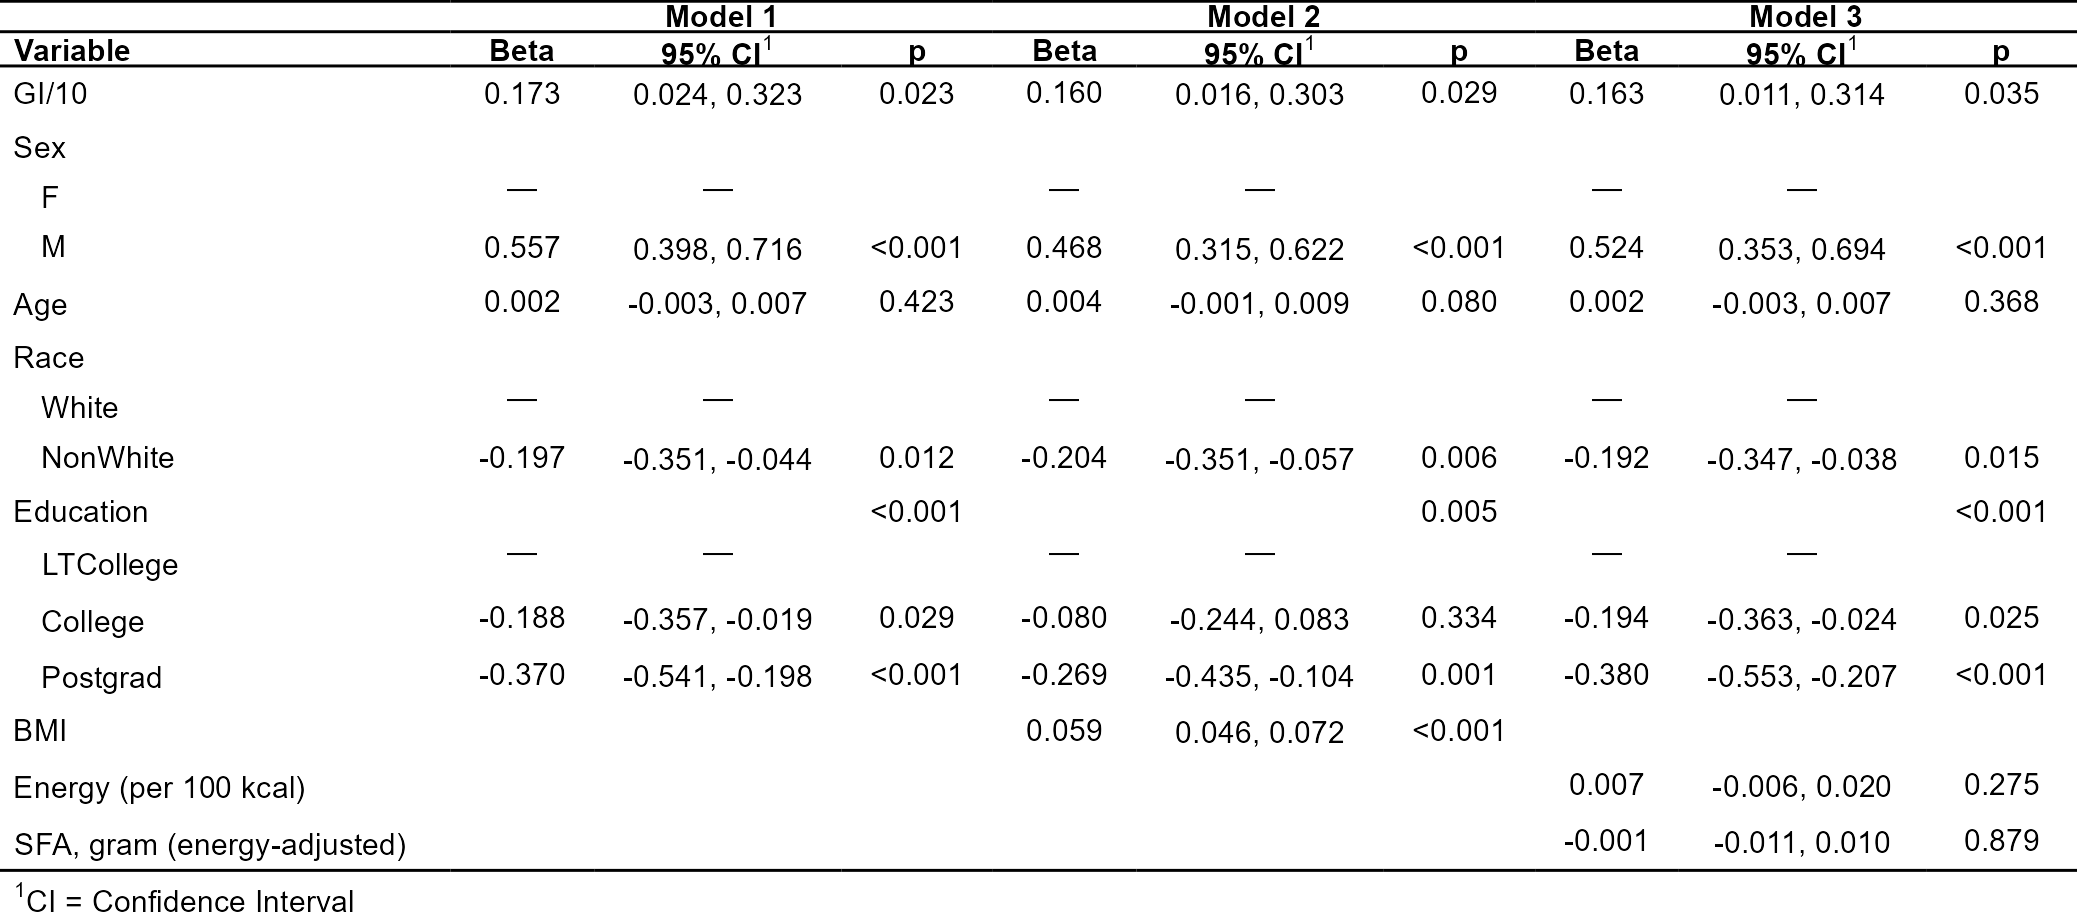
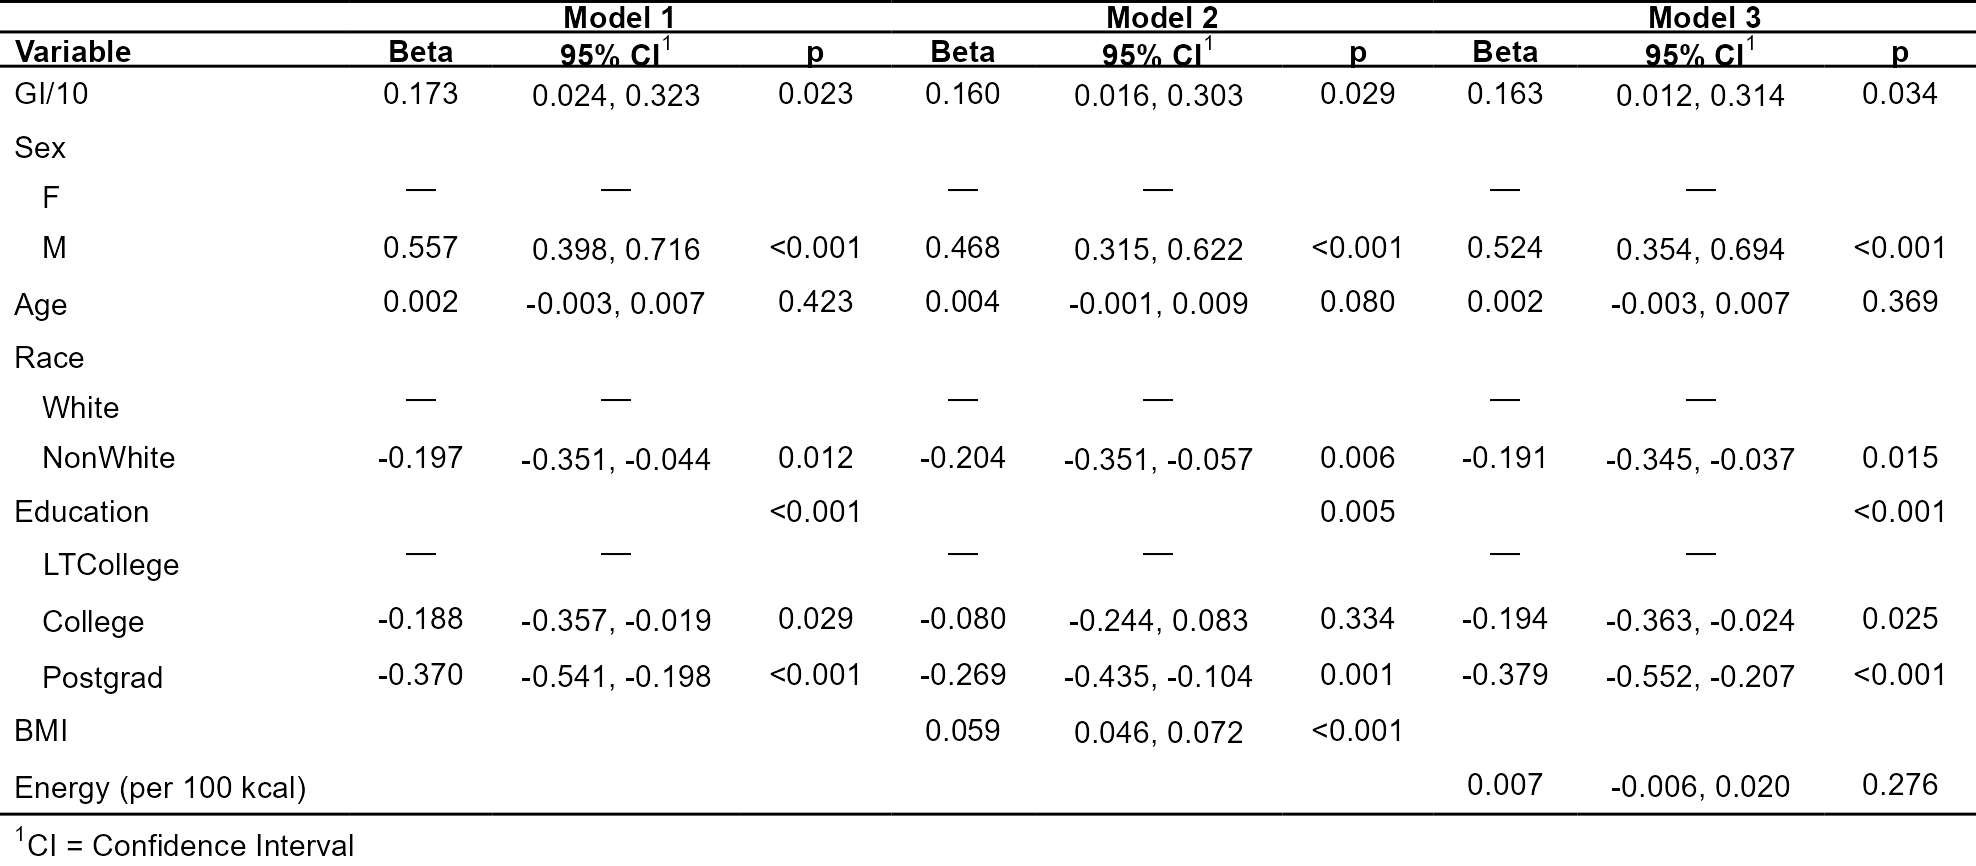
Adds categorical GL/GI model results

diff --git a/summary.md b/summary.md
@@ -230,12 +230,13 @@ HAT hepatic fat study
   - The beta coefficient for GL was attenuated and became
     non-significant after adding BMI into the base model
 
-- In Model 3, total energy (per 100 kcal) and SFA (gram,
-  energy-adjusted) was added to the base model
+- In Model 3, total energy (per 100 kcal) ~~and SFA (gram,
+  energy-adjusted)~~ was added to the base model
 
-  - Both kcal and SFA were not significantly associated with HFF
+  - The total energy intake (kcal) was not significantly associated with
+    HFF
   - Glycemic load was not significantly associated with HFF, after
-    further adjusting for kcal and SFA
+    further adjusting for kcal ~~and SFA~~
 
 - \[I did not use added sugar and carbohydrate, because these two
   variables have a high correlation with each other and this will cause
@@ -245,7 +246,31 @@ HAT hepatic fat study
 - There were no significant interactions between GL and gender, age,
   race, education, BMI, treatment group, or SFA (results not shown here)
 
-<img src="summary_files/figure-gfm/gl_models-1.png" width="2077" />
+<img src="summary_files/figure-gfm/gl_models-1.png" width="1976" />
+
+- The results above suggest that GL is significantly positively
+  associated with HFF when adjusted for demographic variables (gender,
+  age, race and education in Model 1). In order to estimate how HFF
+  differs according to GL levels, GL values were categorized into 3
+  equal tertiles (6.6-85.4, 85.5-121, \>121) and then this categorical
+  GL variable was entered into the model, instead of using GL as
+  continuous as in the previous model.
+
+- The table below shows estimated means (with 95% confidence intervals)
+  of HFF for the tertile groups, after adjusting for the demographic
+  variables.
+
+  - As expected, the mean HFF values (see the column `emmean`) tend to
+    be larger for greater tertile groups.
+  - A significant difference was found between the 1st and the 3rd
+    tertile groups (p = 0.0085). There were no significant differences
+    between (1st vs 2nd) or (2nd vs 3rd).
+
+| GL_cat3     | emmean | lower.CL | upper.CL |
+|:------------|-------:|---------:|---------:|
+| 1st tertile | 0.0566 |   0.0494 |   0.0649 |
+| 2nd tertile | 0.0669 |   0.0586 |   0.0763 |
+| 3rd tertile | 0.0716 |   0.0631 |   0.0813 |
 
 ## Regression models of HFF on GI
 
@@ -281,18 +306,42 @@ HAT hepatic fat study
     corresponding increment of HFF by 17% (i.e., $exp(0.160) = 1.17$ or
     17% increase)
 
-- In Model 3 (Base + kcal + SFA):
+- In Model 3 (Base + kcal):
 
-  - Both kcal and SFA were not significantly associated with HFF
+  - The total energy intake (kcal) not significantly associated with HFF
   - The beta coefficient for GI was slightly attenuated but still
-    significant (p = 0.035). A 10-unit increment in GI gives a
+    significant (p = 0.034). A 10-unit increment in GI gives a
     corresponding increment of HFF by 18% (i.e., $exp(0.163) = 1.18$ or
     18% increase)
 
 - There were no significant interactions between GI and gender, age,
   race, education, BMI, treatment group, or SFA (results not shown here)
 
-<img src="summary_files/figure-gfm/gi_models-1.png" width="2077" />
+<img src="summary_files/figure-gfm/gi_models-1.png" width="1976" />
+
+- The results above suggest that GI is significantly positively
+  associated with HFF when adjusted for demographics (Model 1),
+  demographics plus BMI (Model 2), or demographics plus energy intake
+  (Model 3). In order to estimate how HFF differs according to GI
+  levels, GI values were categorized into 3 equal tertiles (38.2-56.3,
+  56.4-60, \>60) and then this categorical GI variable was entered into
+  the model, instead of using GI as continuous as in the previous model.
+
+- The table below shows estimated means (with 95% confidence intervals)
+  of HFF for the tertile groups, after adjusting for the demographic
+  variables.
+
+  - As expected, the mean HFF values (see the column `emmean`) tend to
+    be larger for greater tertile groups.
+  - A significant difference was found between the 1st and the 3rd
+    tertile groups (p = 0.0198). There were no significant differences
+    between (1st vs 2nd) or (2nd vs 3rd).
+
+| GI_cat3     | emmean | lower.CL | upper.CL |
+|:------------|-------:|---------:|---------:|
+| 1st tertile | 0.0601 |   0.0527 |   0.0685 |
+| 2nd tertile | 0.0622 |   0.0545 |   0.0710 |
+| 3rd tertile | 0.0737 |   0.0648 |   0.0839 |
 
 ## Descriptive table
 
